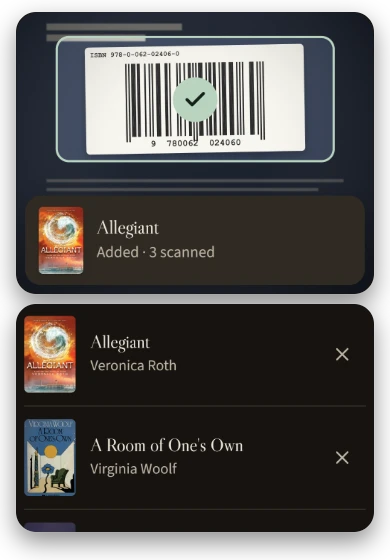
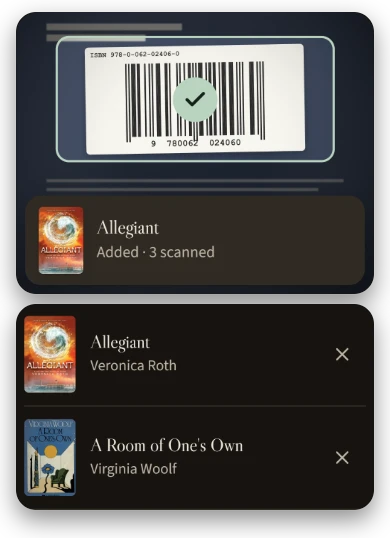
Finish #254: Notes helper line, 'to' instead of arrows in the journal and data records, lucide ArrowRight on the import link, new scan-hero, 20px picture margin (16px under 360px)

diff --git a/frontend/tests/reading-page-d.spec.js b/frontend/tests/reading-page-d.spec.js
@@ -115,6 +115,17 @@ test("a page with no known total asks for it once, inline, and saves it with the
   await expect(page.getByLabel("How many pages in your copy?")).toHaveCount(0);
 });
 
+test("the Notes heading carries the line that only the reader sees notes, on the reading page and nowhere public", async ({ page, app: _app }) => {
+  await page.goto("/my-books/101");
+  const notes = page.locator(".bv-notes");
+  await expect(notes.getByRole("heading", { name: "Notes", level: 2 })).toBeVisible();
+  await expect(notes.getByText("Only you can see your notes.", { exact: true })).toBeVisible();
+  expect(await notes.locator("p.bv-help").count()).toBe(1);
+  await page.goto("/book/1");
+  await expect(page.getByRole("heading", { level: 1, name: "Piranesi" })).toBeVisible();
+  await expect(page.getByText("Only you can see your notes.")).toHaveCount(0);
+});
+
 test("the last page asks Finished the book? inline; Yes finishes the reading, Not yet closes it", async ({ page, app }) => {
   await page.goto("/my-books/101");
   await onPage(page).fill("360");
@@ -220,12 +231,20 @@ test("the save sends the reader's local day as `on`", async ({ page, app }) => {
   expect(app.patches[0].on).toBe(today);
 });
 
+test("a progress day reads \"Page 41 to 64\", with the word to and no arrow", async ({ page, app }) => {
+  app.progressDays = [{ day: "2026-11-21", unit: "pages", first_value: 41, last_value: 64 }];
+  await page.goto("/my-books/101");
+  await expect(page.locator(".bv-journal-day")).toContainText("Page 41 to 64");
+  await expect(page.locator(".bv-journal-day")).not.toContainText("→");
+});
+
 test("a progress day with no movement shows no line", async ({ page, app }) => {
   app.progressDays = [{ day: "2026-11-14", unit: "pages", first_value: 52, last_value: 52 }, { day: "2026-11-12", unit: "pages", first_value: 20, last_value: 35 }];
   await page.goto("/my-books/101");
   await expect(page.locator(".bv-journal-day")).toHaveCount(1);
-  await expect(page.locator(".bv-journal-day")).toContainText("Page 20 → 35");
-  await expect(page.getByText("Page 52 → 52")).toHaveCount(0);
+  await expect(page.locator(".bv-journal-day")).toContainText("Page 20 to 35");
+  await expect(page.getByText("Page 52 to 52")).toHaveCount(0);
+  await expect(page.locator(".bv-journal-day")).not.toContainText("→");
 });
 
 test("progress days show one line each in the journal, newest first; a missing or empty list shows nothing", async ({ page, app }) => {
@@ -236,9 +255,9 @@ test("progress days show one line each in the journal, newest first; a missing o
   const lines = page.locator(".bv-journal-day");
   await expect(lines).toHaveCount(2);
   await expect(lines.first()).toContainText("14 Nov");
-  await expect(lines.first()).toContainText("Page 14 → 52");
-  await expect(lines.nth(1)).toContainText("20% → 35%");
-  await expect(page.getByText("Page 1 → 9")).toHaveCount(0);
+  await expect(lines.first()).toContainText("Page 14 to 52");
+  await expect(lines.nth(1)).toContainText("20% to 35%");
+  await expect(page.getByText("Page 1 to 9")).toHaveCount(0);
   for (const empty of [[], undefined]) {
     app.progressDays = empty;
     await page.goto("/my-books/101");

diff --git a/frontend/src/components/reading/imports/LibraryImportPage.jsx b/frontend/src/components/reading/imports/LibraryImportPage.jsx
@@ -1,4 +1,5 @@
 import { useEffect, useEffectEvent, useRef, useState } from "react";
+import { ArrowRight } from "lucide-react";
 import { Navigate } from "react-router-dom";
 import { useAuth } from "../../../hooks/AuthContext.jsx";
 import { useUserBooks } from "../../../hooks/UserBooksContext.jsx";
@@ -333,7 +334,7 @@ function ImportSession() {
       {finished(run.phase) && <EnrichmentLine key={run.id} runId={run.id} />}
       {!finished(run.phase) && added > 0 && <p>{books(added)} {added === 1 ? "was" : "were"} added before this stopped. Cancelling does not undo additions.</p>}
       {skipped > 0 && <p>{oneClick ? notAdded : `${skipped} skipped.`}</p>}
-      <div className="bv-form-actions">{finished(run.phase) && <ActionLink to="/home">Pick what to read next →</ActionLink>}<ActionLink to="/my-books" variant={finished(run.phase) ? "secondary" : "primary"}>Open My Books</ActionLink></div>
+      <div className="bv-form-actions">{finished(run.phase) && <ActionLink to="/home">Pick what to read next <ArrowRight size={18} strokeWidth={2} aria-hidden="true" /></ActionLink>}<ActionLink to="/my-books" variant={finished(run.phase) ? "secondary" : "primary"}>Open My Books</ActionLink></div>
       <div className="bv-form-actions"><Button variant="quiet" disabled={command.pending} onClick={() => command.run(async assertCurrent => downloadCsv(await imports.exportImportReport(run.id, signal()), "bookvane-import-results.csv", assertCurrent), () => setNotice("Your results were downloaded."))}>Download your results (CSV)</Button>
         <Button variant="quiet" onClick={() => { setRun(null); setPage(null); setFile(null); setInspection(null); setOneClick(false); setReviewOpen(false); setRowsOpen(false); }}>Start another import</Button></div>
       {page && <details className="bv-import-results" open={rowsOpen} onToggle={event => setRowsOpen(event.currentTarget.open)}><summary>Your results</summary>{rowList}</details>}

diff --git a/frontend/tests/library-import.spec.js b/frontend/tests/library-import.spec.js
@@ -107,7 +107,7 @@ test("My Books entry and real local CSV parser preserve Unicode, quotes and embe
   expect(app.requests.some(request => request.path.endsWith("/confirm"))).toBe(false);
   await page.getByRole("button", { name: "Add my books", exact: true }).click();
   await expect(page.getByRole("heading", { name: "Brought home 2 books.", exact: true })).toBeVisible();
-  await expect(page.getByRole("link", { name: "Pick what to read next →", exact: true })).toHaveAttribute("href", "/home");
+  await expect(page.getByRole("link", { name: "Pick what to read next", exact: true })).toHaveAttribute("href", "/home");
   expect(app.requests.filter(request => request.path.endsWith("/confirm"))).toHaveLength(1);
   expect(await page.evaluate(() => Object.keys(localStorage).filter(key => /import|csv|review/i.test(key)))).toEqual([]);
 });
@@ -241,7 +241,7 @@ test("one click adds everything: the preview summary comes from the run and conf
   await page.getByRole("button", { name: "Add my books", exact: true }).click();
   await expect(page.getByRole("heading", { name: "Brought home 2 books.", exact: true })).toBeVisible();
   expect(app.requests.filter(request => request.path.endsWith("/confirm")).map(request => request.body)).toEqual([expect.objectContaining({ accept_warnings: true, approve_private: true, skip_unresolved: true })]);
-  await expect(page.getByRole("link", { name: "Pick what to read next →", exact: true })).toHaveAttribute("href", "/home");
+  await expect(page.getByRole("link", { name: "Pick what to read next", exact: true })).toHaveAttribute("href", "/home");
   await expect(page.getByRole("link", { name: "Open My Books", exact: true })).toHaveAttribute("href", "/my-books");
   await expect(page.getByRole("button", { name: "Download your results (CSV)", exact: true })).toBeVisible();
   expect((await page.locator("#bv-main").innerText()).match(bannedWords)).toBeNull();

diff --git a/frontend/src/components/reading/ReadingJournal.jsx b/frontend/src/components/reading/ReadingJournal.jsx
@@ -108,6 +108,7 @@ export function ReadingNotes({ entry, attempt, readOnly, minVersion = 0, onSaved
   }
   return <section className="bv-notes" aria-labelledby="bv-notes-title">
     <h2 id="bv-notes-title">Notes</h2>
+    <p className="bv-help">Only you can see your notes.</p>
     <form className="bv-notes-form" onSubmit={add}>
       <label className="bv-sr-only" htmlFor="bv-note-new">Write a thought about this book</label>
       <textarea ref={area} id="bv-note-new" className="bv-note-input" rows={3} maxLength={2000} placeholder="Write a thought about this book" value={text} disabled={readOnly}
@@ -140,12 +141,12 @@ export default function ReadingJournal({ entry, attempt, entryId, workspace, vis
     if (attempt.started_on) add("started", attempt.started_on, "Started", { kind: "progress", attempt });
   }
   // Days with saved progress, from the workspace's `progress_days` (T55): {day, unit, first_value, last_value}, newest first.
-  // Missing or empty means no lines ("14 Nov · Page 14 → 52").
+  // Missing or empty means no lines ("14 Nov · Page 14 to 52").
   const days = workspace?.progress_days;
   for (const { day: on, unit, first_value: from, last_value: to } of Array.isArray(days) ? days : []) {
     if (from == null || to == null || !on || from === to) continue; // a day with no movement says nothing
     const mark = value => unit === "percent" ? `${value}%` : value;
-    add(`day-${on}`, on, unit === "percent" ? `${mark(from)} → ${mark(to)}` : `Page ${from} → ${to}`);
+    add(`day-${on}`, on, unit === "percent" ? `${mark(from)} to ${mark(to)}` : `Page ${from} to ${to}`);
   }
   if (entry?.save_note) add("saved", entry.created_at, `Saved it: ${entry.save_note}`, { kind: "save_note" });
   for (const past of history.data?.items || []) {

diff --git a/frontend/src/styles/ui-v2/landing.css b/frontend/src/styles/ui-v2/landing.css
@@ -54,8 +54,9 @@
 @media (prefers-reduced-motion: reduce) { .bv-root .bv-landing-faq summary svg { transition: none; } }
 
 /* The pictures are finished cards with 16px of shadow room: shown at their own size, never in a frame. */
-.bv-root .bv-landing-shot { display: block; width: 100%; max-width: 390px; min-width: 0; justify-self: center; margin-inline: -16px; width: calc(100% + 32px); }
+.bv-root .bv-landing-shot { display: block; width: 100%; max-width: 390px; min-width: 0; justify-self: center; margin-inline: -20px; width: calc(100% + 40px); }
 .bv-root .bv-landing-shot img { display: block; width: 100%; height: auto; }
 .bv-root .bv-landing-hero .bv-landing-shot { justify-self: end; }
 .bv-root .bv-landing-block--text { grid-template-columns: minmax(0, 1fr); }
 @media (max-width: 899px) { .bv-root .bv-landing-hero .bv-landing-shot { justify-self: center; } }
+@media (max-width: 359px) { .bv-root .bv-landing-shot { margin-inline: -16px; width: calc(100% + 32px); } }

diff --git a/frontend/src/components/reading/ReadingDataControls.jsx b/frontend/src/components/reading/ReadingDataControls.jsx
@@ -11,7 +11,7 @@ export function ReadingRemovalDialog({ entry, attempt, onClose, onRemoved }) {
   const memory = useReadingDrafts();
   const title = entry.book?.title || entry.private_title;
   const state = attempt && ({ reading: "Reading", paused: "Paused", finished: "Finished", dnf: "Stopped" })[attempt.state];
-  const record = attempt ? `${state} · ${attempt.started_on || "Start date unknown"}${attempt.ended_on ? ` → ${attempt.ended_on}` : ""}` : null;
+  const record = attempt ? `${state} · ${attempt.started_on || "Start date unknown"}${attempt.ended_on ? ` to ${attempt.ended_on}` : ""}` : null;
   async function remove(assertCurrent) {
     if (!attempt) {
       try { await forgetLibraryEntry(entry.id, entry.version); }

diff --git a/frontend/src/components/ui-v2/landing/landingCopy.js b/frontend/src/components/ui-v2/landing/landingCopy.js
@@ -17,7 +17,7 @@ export const COPY = {
   alt: {
     scan: "The Scan books sheet: a barcode inside the aiming box with a green tick, a card reading Added, 3 scanned, and the scanned books with their covers listed below.",
     library: "The import review asks which Alice’s Adventures in Wonderland is yours, with two editions and their covers to choose from.",
-    note: "A book page for A Room of One’s Own: page 64 of 128, a saved note, and the days read.",
+    note: "A book page for A Room of One’s Own: page 64 of 128, the line “Only you can see your notes.”, a saved note, and the days read.",
   },
 };;
 

diff --git a/frontend/src/components/ui-v2/landing/LandingPage.jsx b/frontend/src/components/ui-v2/landing/LandingPage.jsx
@@ -6,7 +6,7 @@ import { useReader } from "../readerState.js";
 import { ActionLink, TextLink } from "../primitives.jsx";
 import { COPY, LIVE, faqItems, paidText } from "./landingCopy.js";
 
-const SIZES = { "scan-hero": [390, 560], "import-review": [390, 544], "private-notes": [390, 589] };
+const SIZES = { "scan-hero": [390, 538], "import-review": [390, 544], "private-notes": [390, 713] };
 
 // A real capture of the running app, one file per theme and density. The reader's own theme choice picks the files; WebP first, PNG as the fallback.
 function Shot({ name, alt, eager = false }) {
